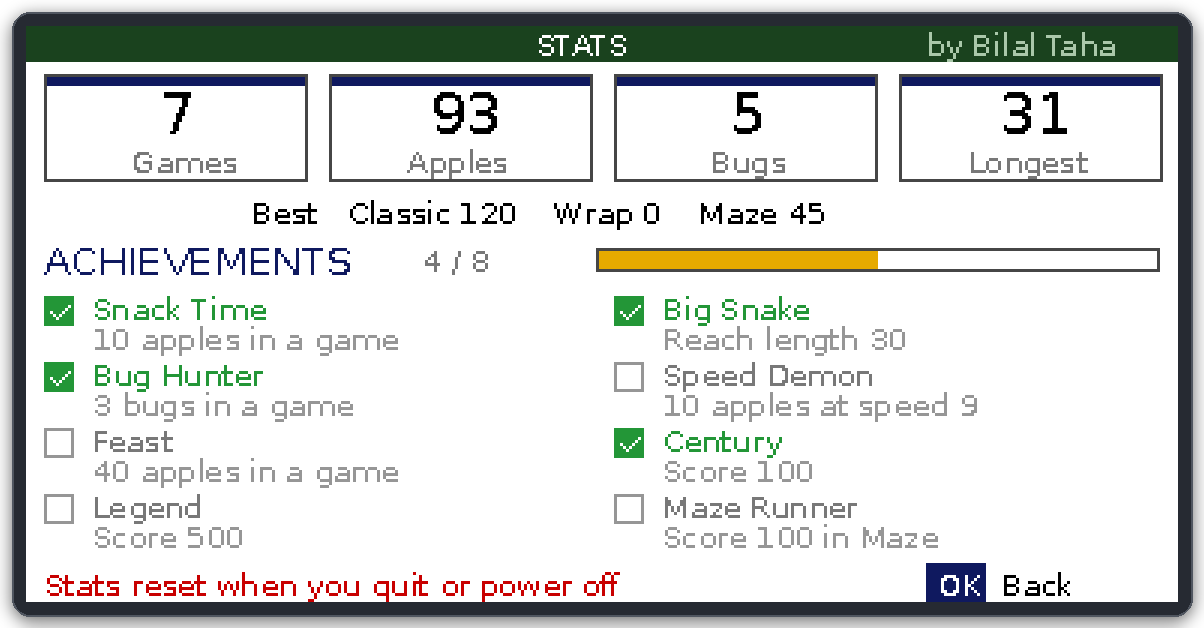
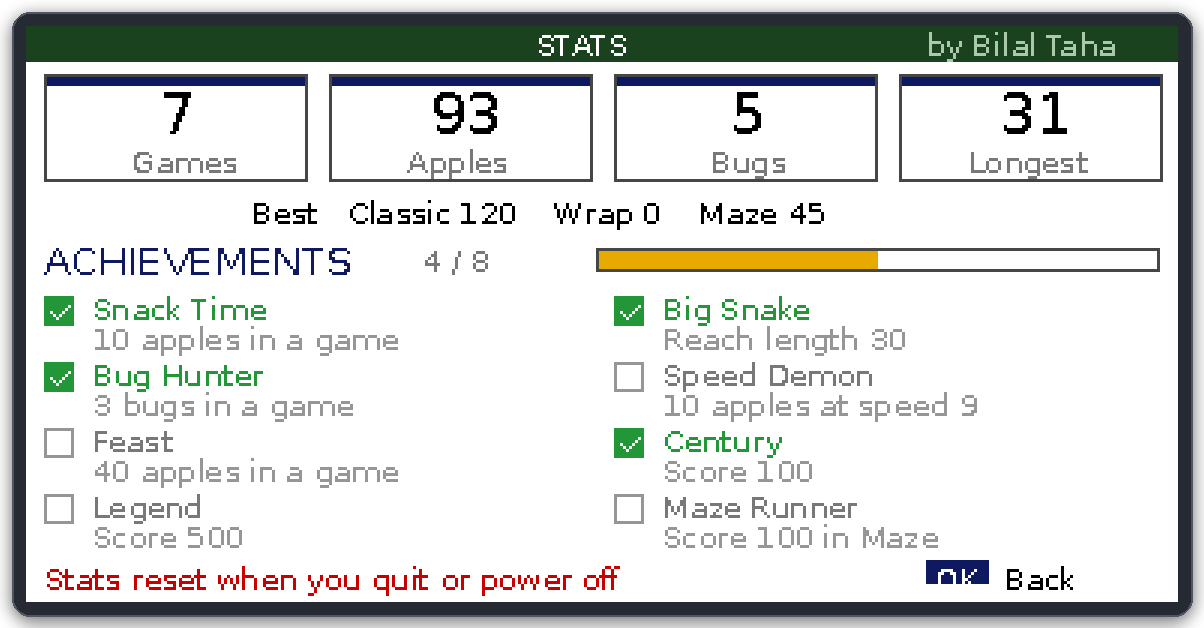
Snake v1.6: fix stats crash and button padding
- Stats screen no longer uses enumerate (missing from Casio's MicroPython)
- Key buttons measure their label so padding is even on the calculator font
- Menu redraws in place after closing stats (no recursion)
- Refreshed screenshots

Claude-Session: https://claude.ai/code/session_016c2cFbm1SFFrbSLPWF8wvy

Changed region(s): [[0.0307, 0.9076, 0.5224, 0.9682], [0.7683, 0.8774, 0.8912, 0.9682]]

diff --git a/calculator/snake16.py b/calculator/snake16.py
@@ -1,8 +1,8 @@
 from casioplot import *
 from random import randint
-from sgfx15 import *
-# SNAKE v1.5 for fx-CG100 - made by Bilal Taha
-# Needs sgfx15.py on the calculator too. Arrows move, OK pauses, AC quits.
+from sgfx16 import *
+# SNAKE v1.6 for fx-CG100 - made by Bilal Taha
+# Needs sgfx16.py on the calculator too. Arrows move, OK pauses, AC quits.
 # DELAY: raise it if every speed is too fast, lower it if too slow.
 COLS=32;ROWS=15;DELAY=2500;POLLS=4;BUG_LIFE=30
 UP=14;DOWN=34;LEFT=23;RIGHT=25;OK=24;EXE=95
@@ -176,10 +176,12 @@ def skinparts():
   x=chip(58,146,"EXE",CUR[0]);draw_string(x,146,"Start",TXT,"small")
   x=chip(160,146,"OK",CUR[0]);draw_string(x,146,"Stats",TXT,"small")
   x=chip(256,146,"AC",CUR[0]);draw_string(x,146,"Quit",TXT,"small")
-def title(mode,spd,sk,best):
-  skin(sk);GRASS[0]=False;menubg()
+def menu_static():
+  GRASS[0]=False;menubg()
   draw_string(286,40,"by Bilal Taha",GREY,"small")
   draw_string(88,166,"Up/Down select    Left/Right change",SOFT,"small")
+def title(mode,spd,sk,best):
+  skin(sk);menu_static()
   row=0;old=None
   while True:
     v=[MODES[mode],str(spd),SKINS[sk][0]]
@@ -209,15 +211,16 @@ def title(mode,spd,sk,best):
         sk=(sk+s)%len(SKINS)
       wait_release(k)
     elif k==OK:
-      wait_release(k);stats(best);return title(mode,spd,sk,best)
+      wait_release(k);stats(best);skin(sk);menu_static();old=None
     elif k==EXE:
       wait_release(k);skin(sk);return mode,spd,sk
 def stats(best):
   clear_screen();band();h=CUR[0]
   draw_string(170,0,"STATS",WHITE,"small");draw_string(300,0,"by Bilal Taha",(170,200,170),"small")
   S=STATS
-  for i,(lab,val) in enumerate((("Games",S["games"]),("Apples",S["apples"]),("Bugs",S["bugs"]),("Longest",S["longest"]))):
-    x=6+i*95
+  cards=(("Games",S["games"]),("Apples",S["apples"]),("Bugs",S["bugs"]),("Longest",S["longest"]))
+  for i in range(4):
+    lab=cards[i][0];val=cards[i][1];x=6+i*95
     frame(x,16,88,36,LINE);box(x+1,17,86,3,h)
     v=str(val);draw_string(x+44-len(v)*5,18,v,TXT,"large")
     draw_string(x+44-len(lab)*3,39,lab,GREY,"small")
@@ -231,8 +234,8 @@ def stats(best):
     tick(x,y+2,GOT[i])
     draw_string(x+16,y,ACH[i][0],GREEN if GOT[i] else GREY,"small")
     draw_string(x+16,y+10,ACH[i][1],SOFT,"small")
-  draw_string(6,180,"Stats reset when you quit or power off",RED,"small")
-  x=chip(300,179,"OK",h);draw_string(x,180,"Back",TXT,"small")
+  draw_string(6,178,"Stats reset when you quit or power off",RED,"small")
+  x=chip(300,177,"OK",h);draw_string(x,178,"Back",TXT,"small")
   show_screen()
   while getkey()!=OK:
     pass

diff --git a/calculator/sgfx16.py b/calculator/sgfx16.py
@@ -1,6 +1,6 @@
 from casioplot import *
 from random import randint
-# Graphics + skins for snake15.py v1.5 (keep both files on the calculator)
+# Graphics + skins for snake16.py v1.6 (keep both files on the calculator)
 CELL=12
 G1=(132,204,82);G2=(116,190,70);GB=(88,158,54);GL=(160,222,110)
 BL=((2,3),(3,2),(8,7),(9,6),(5,9));HL=((3,3),(9,7))
@@ -239,10 +239,20 @@ GREEN=(35,150,55);SOFT=(150,150,150)
 def tri(x,y,dr,col):
   for i in range(5):
     box(x+(i if dr>0 else 4-i),y+i,1,9-2*i,col)
+def ink(p):
+  return p is not None and p[0]+p[1]+p[2]<600
 def chip(x,y,lab,col):
-  w=len(lab)*6+8
-  box(x,y,w,13,col);draw_string(x+4,y+1,lab,WHITE,"small")
-  return x+w+5
+  # draw the text once, measure where its pixels really are, then frame it evenly
+  box(x-2,y-3,len(lab)*12+8,min(19,189-y),WHITE);draw_string(x+3,y+1,lab,TXT,"small")
+  x0=999;x1=-1;y0=999;y1=-1
+  for xx in range(x+3,min(383,x+4+len(lab)*12)):
+    for yy in range(y,min(191,y+15)):
+      if ink(get_pixel(xx,yy)):
+        x0=min(x0,xx);x1=max(x1,xx);y0=min(y0,yy);y1=max(y1,yy)
+  if x1<0:
+    return x+20
+  box(x0-4,y0-3,x1-x0+9,min(y1-y0+7,189-y0),col);draw_string(x+3,y+1,lab,WHITE,"small")
+  return x1+10
 def cursor(x,y,col):
   box(x,y,10,10,col);box(x+5,y+2,4,3,WHITE);box(x+7,y+3,2,2,EYE)
 def tick(x,y,ok):

diff --git a/README.md b/README.md
@@ -35,12 +35,12 @@ It's written in MicroPython with Casio's built-in `casioplot` module, so it runs
 ## 📥 Install
 
 1. Download the two files from the [`calculator`](calculator) folder:
-   - `snake15.py`: the game
-   - `sgfx15.py`: graphics and skins
+   - `snake16.py`: the game
+   - `sgfx16.py`: graphics and skins
 2. Connect the calculator to your computer with a USB cable and choose **USB Flash** on the calculator.
 3. Copy **both** files to the **top level** of the calculator drive, not into a folder.
 4. Eject the drive on your computer, wait for **"Complete!"** on the calculator, press **OK**, then unplug.
-5. On the calculator, go to **HOME → Python → TOOLS → File → Open**, pick **`snake15.py`** and run it.
+5. On the calculator, go to **HOME → Python → TOOLS → File → Open**, pick **`snake16.py`** and run it.
 
 ## 🎮 Controls
 
@@ -73,10 +73,10 @@ sudo apt install python3-tk python3-pil
 
 # run it
 cd calculator
-PYTHONPATH=../pc-simulator python3 snake15.py
+PYTHONPATH=../pc-simulator python3 snake16.py
 ```
 
-On Windows or Mac, install Python and `pip install pillow`, then copy `casioplot.py` into the `calculator` folder and run `python snake15.py`.
+On Windows or Mac, install Python and `pip install pillow`, then copy `casioplot.py` into the `calculator` folder and run `python snake16.py`.
 
 PC keys: arrows = arrows, Enter = EXE, Space or O = OK, Esc = quit.
 
@@ -84,11 +84,11 @@ PC keys: arrows = arrows, Enter = EXE, Space or O = OK, Esc = quit.
 
 ## ⚙ Tuning
 
-If every speed feels too fast or too slow on your calculator, change `DELAY=2500` near the top of `snake15.py`. A higher number makes the game slower.
+If every speed feels too fast or too slow on your calculator, change `DELAY=2500` near the top of `snake16.py`. A higher number makes the game slower.
 
 ## 📝 Versions
 
-Calculator file names can't contain dots, so the version is in the name: `snake15.py` + `sgfx15.py` = **v1.5**. To update, delete the old pair from the calculator and copy the new pair.
+Calculator file names can't contain dots, so the version is in the name: `snake16.py` + `sgfx16.py` = **v1.6**. To update, delete the old pair from the calculator and copy the new pair.
 
 ## 📄 License
 
